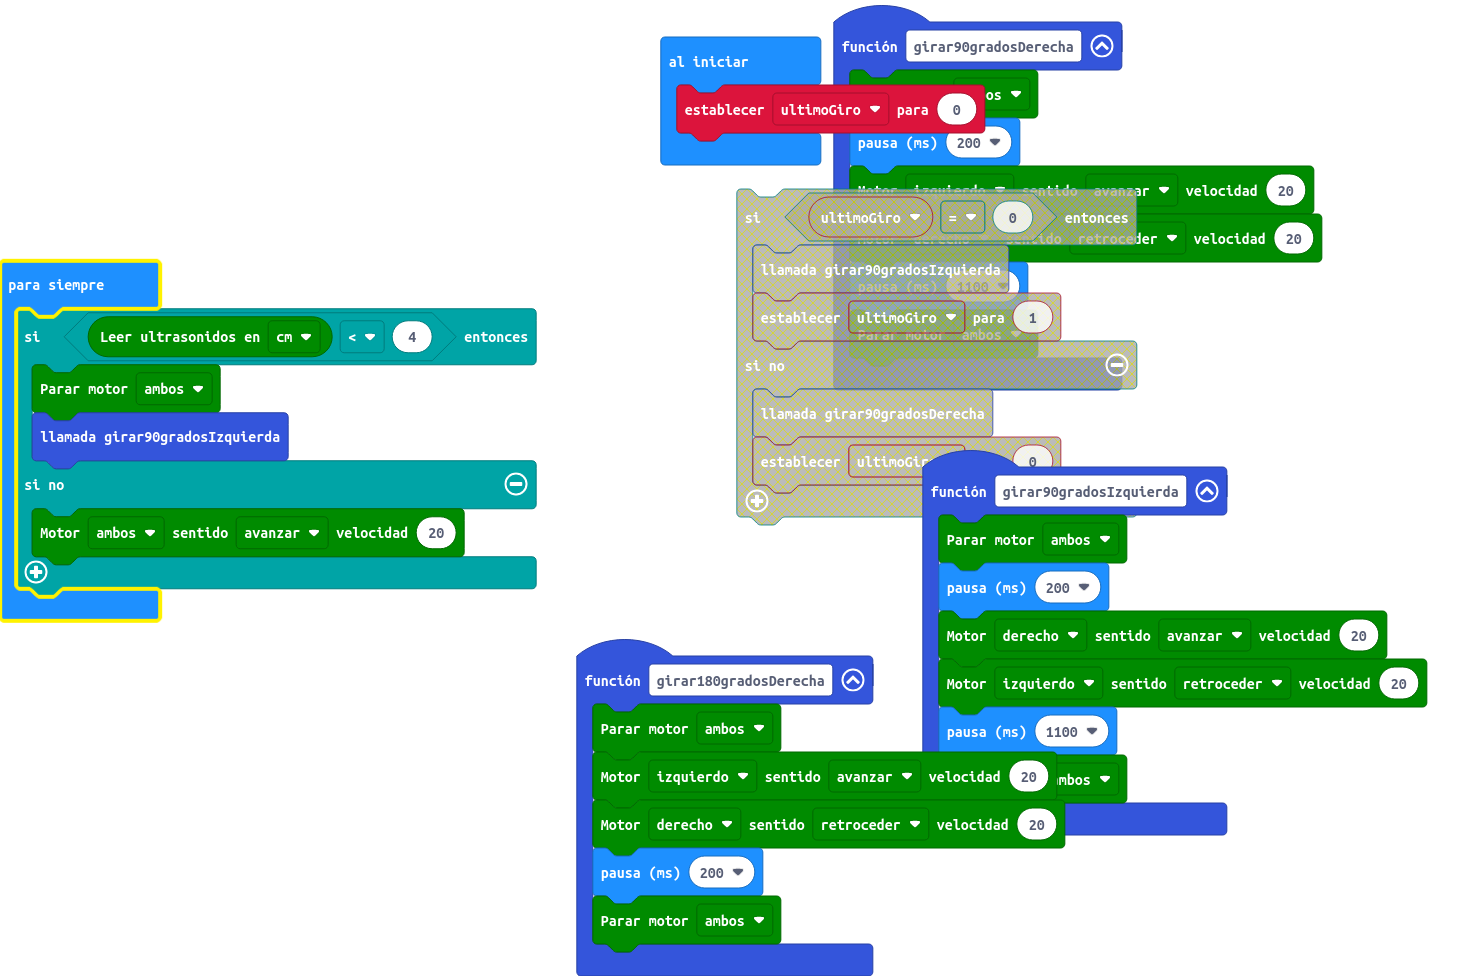
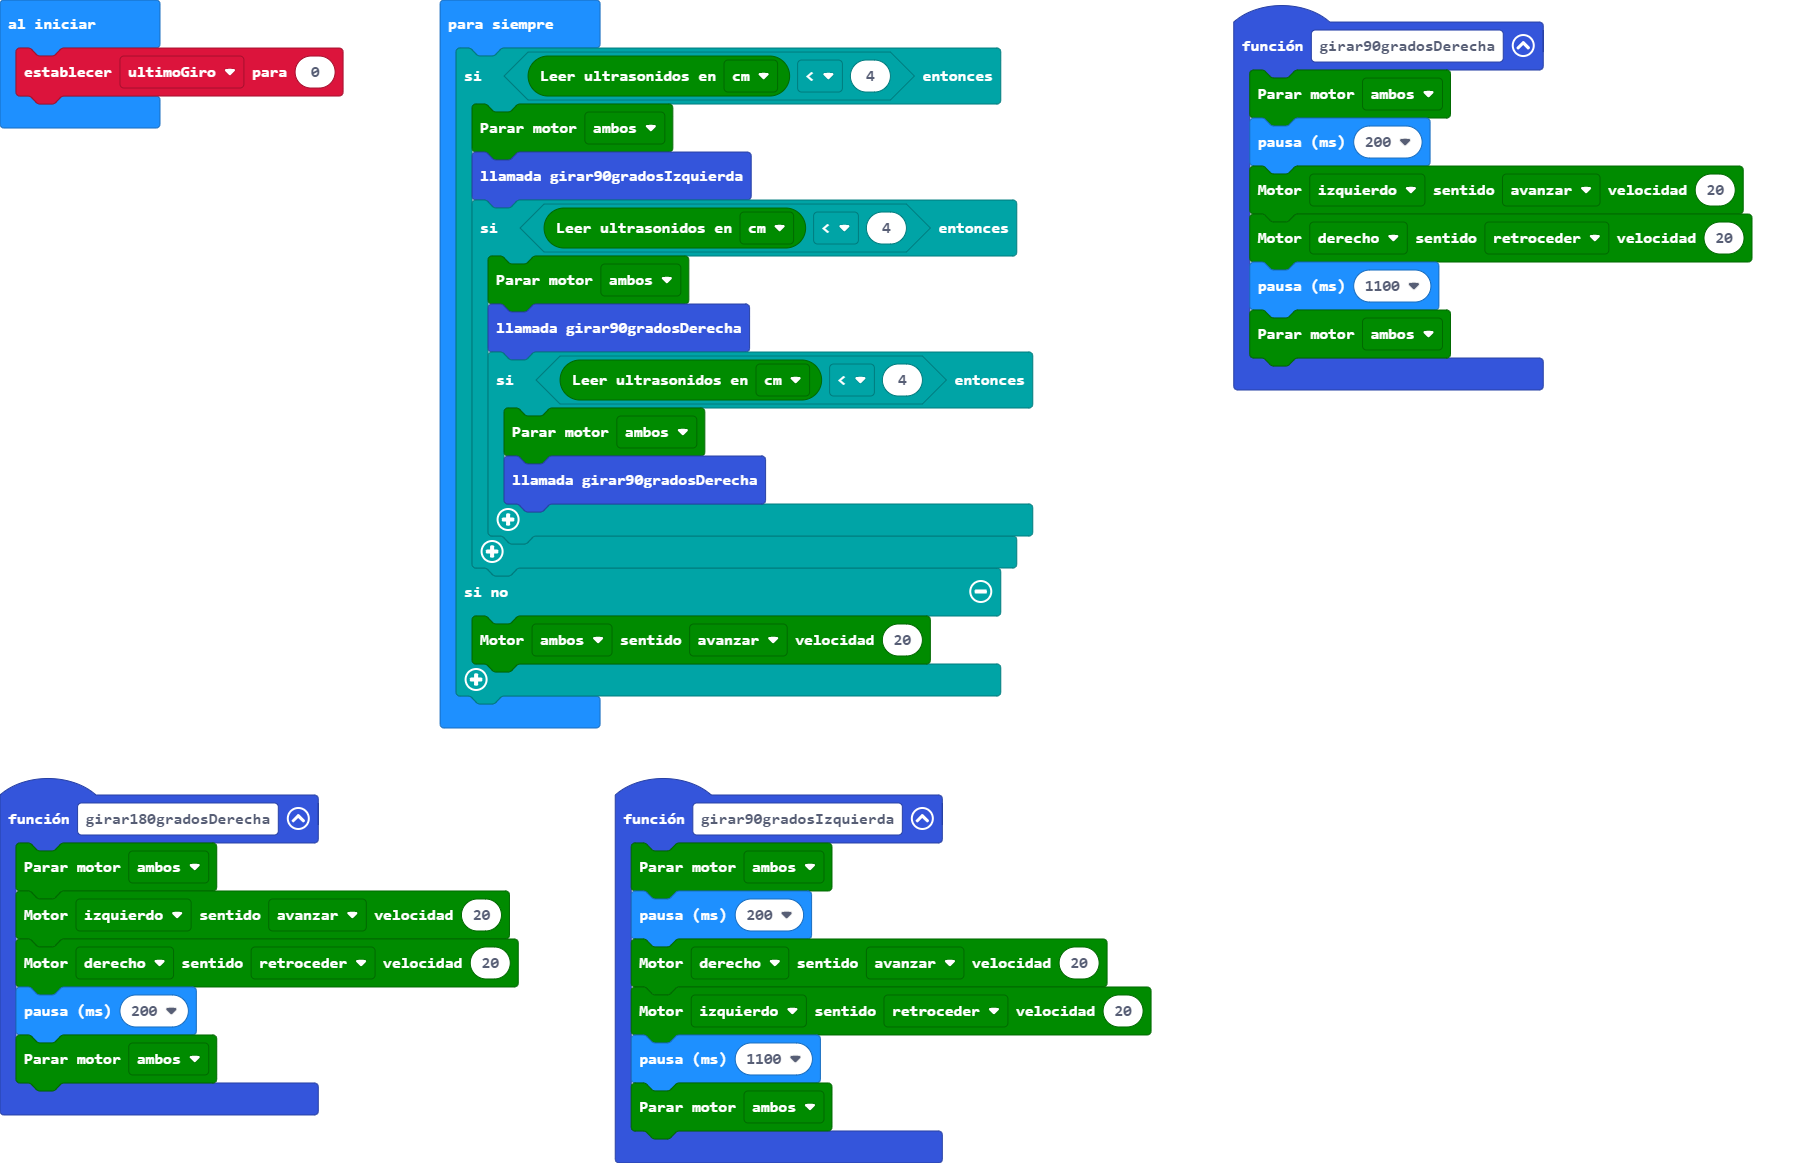
kk

diff --git a/main.ts b/main.ts
@@ -26,6 +26,14 @@ basic.forever(function () {
     if (maqueen.Ultrasonic(PingUnit.Centimeters) < 4) {
         maqueen.motorStop(maqueen.Motors.All)
         girar90gradosIzquierda()
+        if (maqueen.Ultrasonic(PingUnit.Centimeters) < 4) {
+            maqueen.motorStop(maqueen.Motors.All)
+            girar90gradosDerecha()
+            if (maqueen.Ultrasonic(PingUnit.Centimeters) < 4) {
+                maqueen.motorStop(maqueen.Motors.All)
+                girar90gradosDerecha()
+            }
+        }
     } else {
         maqueen.motorRun(maqueen.Motors.All, maqueen.Dir.CW, 20)
     }
